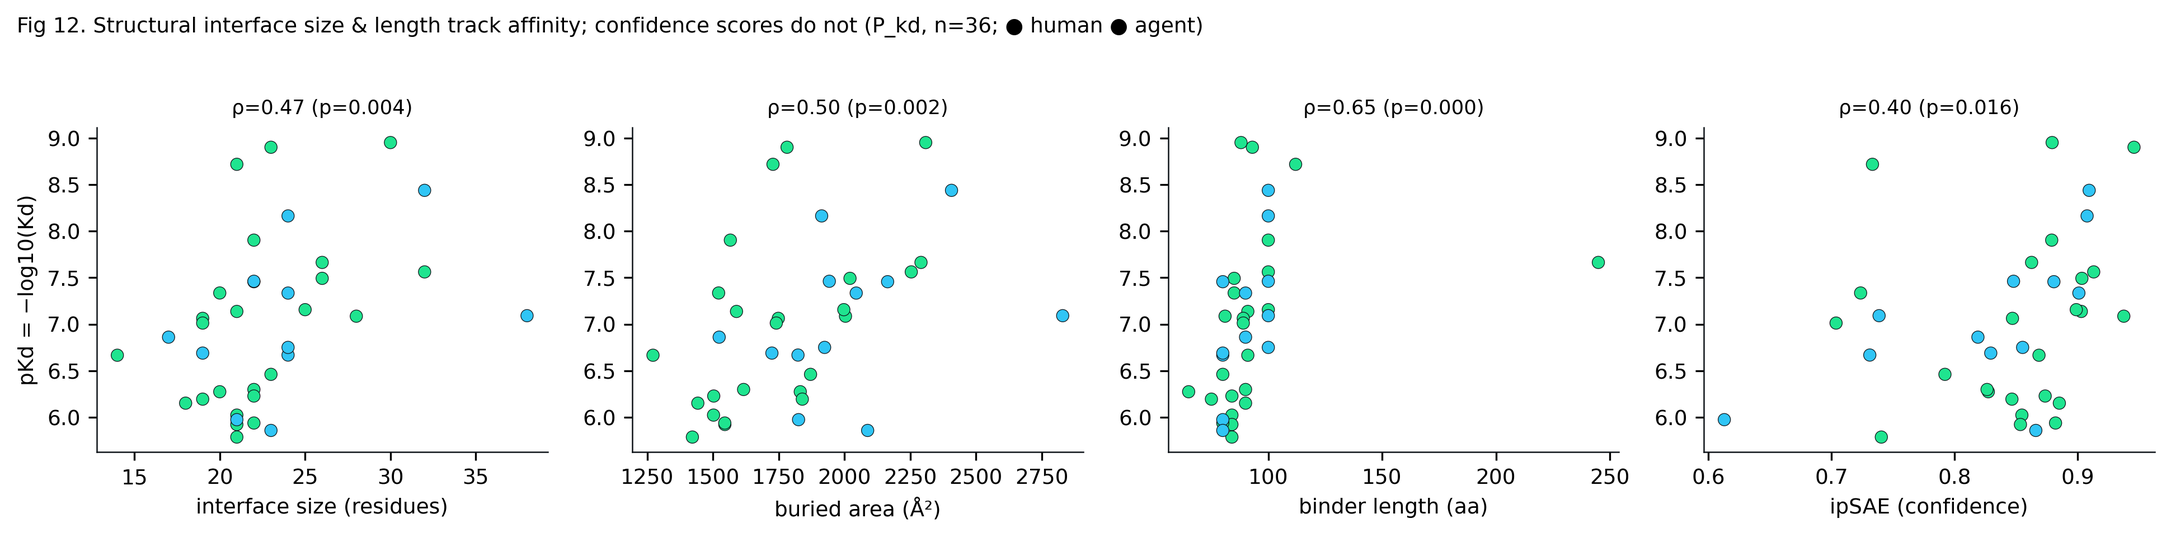
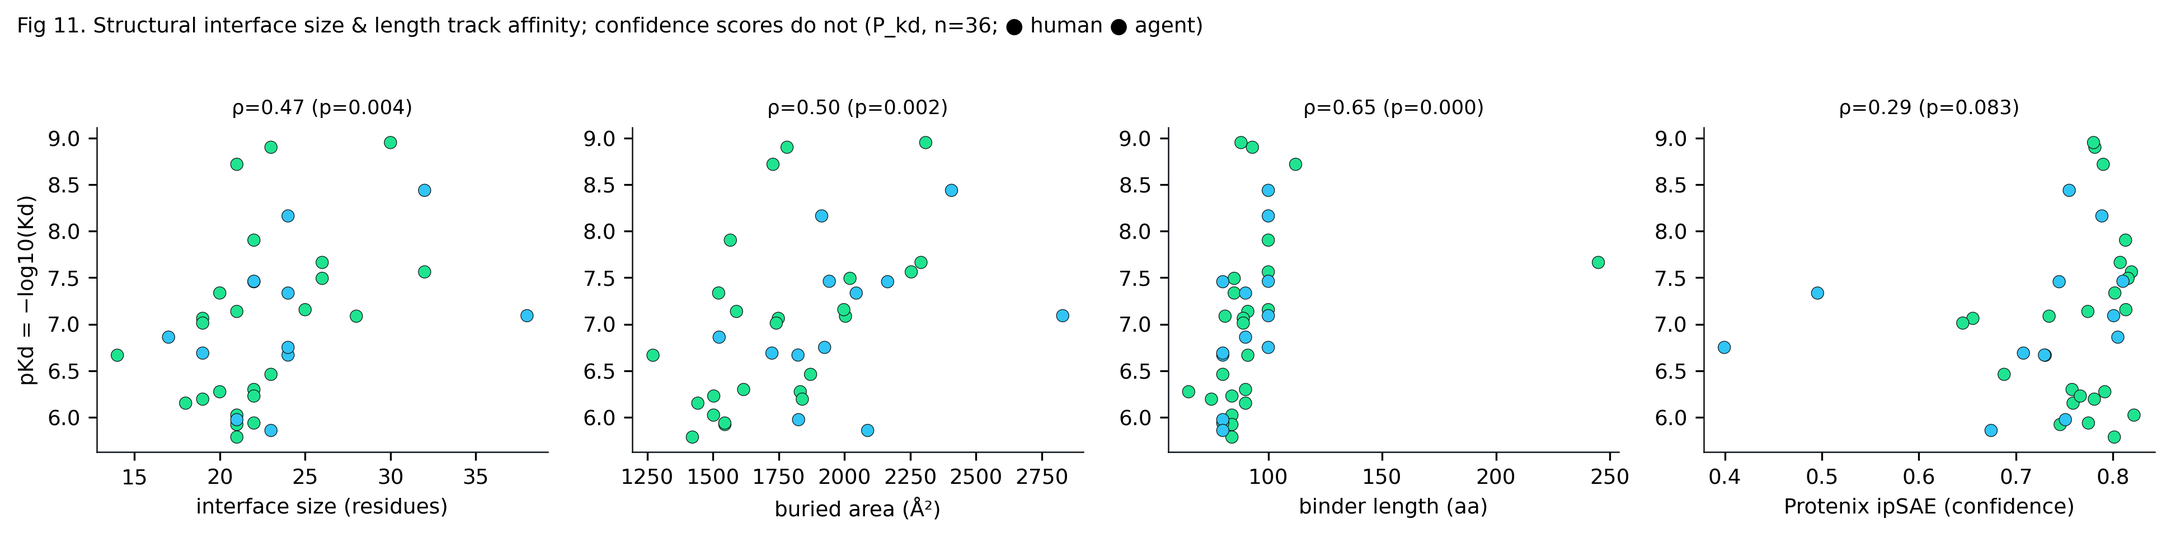
Recompute §3 learned scores on Protenix (apples-to-apples with §2) — cleaner failure story
phase6_correlations.py TIER1 now uses the PROTENIX confidence scores (px_ipsae_d0chn_max, px_iptm,
px_mean_plddt), matching §2's all-Protenix analysis; the competition's Boltz-2 ipSAE (submitted_ipsae) is
retained alongside as the actual top-100 selection metric. Regenerated metric_correlations.csv (fixed seeds).

New numbers (P_kd, n=36): on Protenix, NO learned score ranks affinity — ipSAE ρ=0.29, ipTM 0.20, mean pLDDT
0.28, all CIs spanning zero / q>0.10 (as before ESM-2 0.09, SaProt 0.06). The *same* Protenix confidence
scores that discriminate binders from non-binders strongly (§2, AUROC 0.71-0.79) fail to order them by K_D.
The only learned score clearing FDR is the competition's own Boltz-2 ipSAE (ρ=0.40, q=0.10), barely, and
entirely agent-driven (0.66 vs 0.30); the Protenix ipSAE leans the same way weakly (0.47 vs 0.28), n.s.
Structural quantities unchanged (BSA 0.50, interface size 0.47, PRODIGY 0.52, length 0.65).

- Draft §3 body + human/agent para + Summary bullet + Methods rewritten to the Protenix numbers and the
  sharpened classification-vs-ranking conclusion; applied identically to both draft files (prose-identical).
- Fig 11: 4th panel now Protenix ipSAE (ρ=0.29) instead of Boltz-2 submitted ipSAE; regenerated. Fig 8e
  in-image title corrected 'Fig 8d'->'Fig 8e' (was stale from the earlier file rename); regenerated.
- metric_predictor_table note updated (§3 now uses the same Protenix mean-complex pLDDT, ρ=0.28).
[…]

diff --git a/analyses/structure_epitope/jobs/phase6_correlations.py b/analyses/structure_epitope/jobs/phase6_correlations.py
@@ -13,13 +13,15 @@ RNG = np.random.default_rng(20260725)
 NBOOT, NPERM = 5000, 10000
 
 df = pd.read_parquet(ROOT / "data/designs.parquet")
-# §5 uses PROTENIX interface descriptors (the section's primary structural model), not the
-# Protenix+Chai average, for section-wide consistency with §2 (Amy's call).
+# §3 uses PROTENIX throughout for section-wide consistency with §2 (Amy's call): both the interface
+# descriptors AND the learned confidence scores (ipSAE/ipTM/mean-pLDDT) are the Protenix values, so §3's
+# metric comparison is apples-to-apples with §2's discrimination (which is all Protenix). The competition's
+# Boltz-2 ipSAE (submitted_ipsae) is retained alongside as the actual top-100 selection metric, for context.
 desc = pd.read_csv(RES / "interface_descriptors_perpredictor.csv")
 desc = desc[desc.predictor == "protenix"].drop(columns=["predictor"]).reset_index(drop=True)
 meta = pd.read_parquet(ROOT / "analyses/structure_epitope/data/designs_canonical.parquet")
 d = (meta[["design_id","cohort","p_kd","pkd_arith_mean","is_literature_copy"]]
-     .merge(df[["design_id","submitted_ipsae","boltz2_iptm","boltz2_plddt","esm_pll_avg",
+     .merge(df[["design_id","px_ipsae_d0chn_max","px_iptm","px_mean_plddt","submitted_ipsae","esm_pll_avg",
                 "saprot_pll_norm","prodigy_protenix_pkd","prodigy_chai_pkd","sequence_length"]],
             on="design_id")
      .merge(desc[["design_id","bsa","n_iface_binder","n_iface_target","iface_frac_hydrophobic",
@@ -27,7 +29,7 @@ d = (meta[["design_id","cohort","p_kd","pkd_arith_mean","is_literature_copy"]]
 kd = d[d.p_kd == True].copy()
 print(f"P_kd n = {len(kd)}")
 
-TIER1 = ["submitted_ipsae","boltz2_iptm","boltz2_plddt","esm_pll_avg","saprot_pll_norm"]
+TIER1 = ["px_ipsae_d0chn_max","px_iptm","px_mean_plddt","submitted_ipsae","esm_pll_avg","saprot_pll_norm"]
 TIER2 = ["bsa","n_iface_binder","n_iface_target","iface_frac_hydrophobic",
          "prodigy_protenix_pkd","prodigy_chai_pkd","salt_bridges","hbonds"]
 TIER3 = ["sequence_length"]  # exploratory: length is a strong raw confound (verified rho~0.65)

diff --git a/analyses/structure_epitope/jobs/figures.py b/analyses/structure_epitope/jobs/figures.py
@@ -65,11 +65,11 @@ plt.close(fig)
 
 # ---------- Fig 12: metrics vs affinity ----------
 d = desc.merge(meta[["design_id","p_kd","pkd_arith_mean"]], on="design_id")
-df6 = pd.read_parquet(ROOT/"data/designs.parquet")[["design_id","submitted_ipsae","sequence_length"]]
+df6 = pd.read_parquet(ROOT/"data/designs.parquet")[["design_id","px_ipsae_d0chn_max","sequence_length"]]
 d = d.merge(df6, on="design_id"); kd = d[d.p_kd==True]
 from scipy import stats
 panels = [("n_iface_binder","interface size (residues)"),("bsa","buried area (Å²)"),
-          ("sequence_length","binder length (aa)"),("submitted_ipsae","ipSAE (confidence)")]
+          ("sequence_length","binder length (aa)"),("px_ipsae_d0chn_max","Protenix ipSAE (confidence)")]
 fig, axs = plt.subplots(1, 4, figsize=(13, 3.2))
 for ax, (col, lab) in zip(axs, panels):
     s = kd.dropna(subset=[col,"pkd_arith_mean"])

diff --git a/analyses/structure_epitope/jobs/metric_predictor_table.py b/analyses/structure_epitope/jobs/metric_predictor_table.py
@@ -149,7 +149,7 @@ L = ["# Per-predictor metric table — AUROC, ρ, and FDR\n",
      "value); **contact motifs are "
      "population enrichment (odds ratios), not a per-design score, so they are reported separately below, "
      "not as AUROC/ρ.** pLDDT is **mean-complex pLDDT** on 0–1 for all three (Protenix rescaled from "
-     "0–100) — a slightly different quantity from §3's Boltz-2 *binder* pLDDT (ρ=0.14).\n"]
+     "0–100) ; §3 uses this same Protenix mean-complex pLDDT for its affinity correlation (ρ=0.28).\n"]
 
 for analysis, kind, head in [("Binder-vs-non-binder discrimination", "auroc", "AUROC"),
                              ("Affinity (pKd) correlation", "rho", "ρ")]:

diff --git a/analyses/structure_epitope/drafts/structure_analysis.md b/analyses/structure_epitope/drafts/structure_analysis.md
@@ -7,7 +7,7 @@ extensions:
 
 - **Convergent, non-discriminating epitope.** Binders and non-binders alike engage the same apical ligand-binding face (hydrophobic tip + CDR-like loops); *epitope choice does not separate active from inactive designs* (§1).
 - **Interface size is the only interface *descriptor* that discriminates binders from non-binders — robustly, not most strongly.** Binders bury a larger interface (1,823 vs. 1,515 Å², AUROC 0.72, q=0.004), and the effect holds at AUROC 0.65–0.72 across all five predictors (including the no-MSA ESMFold2). It is *not* the best discriminator overall, however: the learned confidence scores match or beat it on the clean AF3-class models (Protenix ipTM 0.79, ipSAE 0.78 vs. buried area 0.72; mean pLDDT 0.71 about level; Chai higher still). Those scores are simply backbone-dependent — ipSAE falls to 0.65 on the Boltz-2 model used for selection — so interface size's advantage is *robustness* across models, not raw AUROC. Interface chemistry, secondary structure, and contact motifs add nothing beyond size — even interface H-bonds and salt bridges, re-scored with proper geometry (Rosetta HBondSet) on clash-verified relaxed structures, reduce to interface size (§2). 
-- **Affinity — learned scores don't *rank* K_D among binders; physical/structural quantities and length do.** Discriminating binders from non-binders (§2) and ordering binders by affinity are different questions: several learned scores do the first but none does the second. Neither the competition's Boltz-2 confidence scores (ipTM ρ=0.28, Boltz-2 binder pLDDT 0.14; ipSAE only weakly, ρ=0.40) nor the language-model likelihoods (ESM-2, SaProt) track K_D; the Protenix structural quantities — interface size (ρ=0.47), buried area (0.50), PRODIGY ΔG (0.52) — and binder length (0.65) do (pooled n=36). The human-vs-agent split is mostly statistical power, not real: interface size and buried area are underpowered — not absent — in the 12 agents, and length works in both cohorts; only PRODIGY (human-only) and ipSAE (an agent-only inversion) are genuinely cohort-specific (§3).
+- **Affinity — learned scores don't *rank* K_D among binders; physical/structural quantities and length do.** Discriminating binders from non-binders (§2) and ordering binders by affinity are different questions, and the *same* Protenix confidence scores that discriminate strongly (AUROC 0.71–0.79) do the first but not the second: on Protenix ipSAE ρ=0.29, ipTM 0.20 and mean pLDDT 0.28 are all non-significant, as are the language-model likelihoods (ESM-2, SaProt); the one learned score that clears FDR is the competition's own Boltz-2 ipSAE (the selection metric, ρ=0.40, agent-driven). The Protenix structural quantities — interface size (ρ=0.47), buried area (0.50), PRODIGY ΔG (0.52) — and binder length (0.65) do (pooled n=36). The human-vs-agent split is mostly statistical power, not real: interface size and buried area are underpowered — not absent — in the 12 agents, and length works in both cohorts; only PRODIGY (human-only) and ipSAE (an agent-only inversion) are genuinely cohort-specific (§3).
 - **Kinetics (§3).** K_D variation is dominated by k_off (k_off–K_D ρ=0.92); k_on is not predicted by any descriptor. Humans and agents show no detectable difference in rate space (equivalence for k_on; k_off excludes only a ≥~7-fold gap).
 - **Affinity in context (§3).** Best measured affinity 1.11 nM (SPR) — ~72× tighter than the best prior de novo TREM2 binder (Perera et al., 2026; 80 nM by MST) on the identical construct.
 
@@ -40,9 +40,9 @@ Furthermore, we classified design outcomes using the Failure taxonomy (Bennett e
 
 ## 3. Affinity: computational predictors and literature context
 
-For affinity (P_kd, n=36), we find that **the learned scores do not rank K_D among binders** — a separate question from the binder/non-binder discrimination of §2, and one they fail even though several of them discriminate well there. The competition's Boltz-2 confidence scores (ipTM ρ=0.28 and the Boltz-2 *binder* pLDDT ρ=0.14) and the language-model likelihoods (ESM-2 0.09, SaProt 0.06) have CIs spanning zero, with the lone exception of the competition's own selection metric, **Boltz-2 ipSAE** (the submitted ipSAE, ρ=0.40, q=0.086), whose signal comes *entirely from the agent cohort* (0.66 vs. human 0.30, ns). **The Protenix structural quantities, on the other hand, do correlate with experimental affinity measurements**: interface size (0.47), buried area (0.50), and PRODIGY ΔG (0.52) clear FDR, and **binder length is the strongest correlate** (0.65), though interface burial keeps its signal after controlling for length (partial ρ≈0.51), so it is not merely a length proxy. Because interface area and PRODIGY are read off the predicted complex, this is a structural property of the model tracking affinity, not sequence-level K_D prediction.
+For affinity (P_kd, n=36), we find that **the learned scores do not rank K_D among binders** — a separate question from the binder/non-binder discrimination of §2, and one they fail even though several of them discriminate well there. On Protenix — the section's primary model, so this is apples-to-apples with §2 — none of the learned scores ranks affinity: ipSAE ρ=0.29, ipTM 0.20 and mean pLDDT 0.28 all have CIs spanning zero, as do the language-model likelihoods (ESM-2 0.09, SaProt 0.06). The *same* Protenix confidence scores that discriminate binders from non-binders strongly (§2: AUROC 0.71–0.79) thus fail to order those binders by K_D. The one learned score that clears FDR is the competition's own **Boltz-2 ipSAE** (the submitted top-100 selection metric, ρ=0.40, q=0.10) — and it only just does, its signal coming *entirely from the agent cohort* (0.66 vs. human 0.30, ns). **The Protenix structural quantities, on the other hand, do correlate with experimental affinity measurements**: interface size (0.47), buried area (0.50), and PRODIGY ΔG (0.52) clear FDR, and **binder length is the strongest correlate** (0.65), though interface burial keeps its signal after controlling for length (partial ρ≈0.51), so it is not merely a length proxy. Because interface area and PRODIGY are read off the predicted complex, this is a structural property of the model tracking affinity, not sequence-level K_D prediction.
 
-Regarding the human-vs-agent comparison, we concluded that the contrast is a **decomposition, not a within-human story**. For interface size and buried area the 12 agents match the humans' direction but miss significance (ρ 0.36–0.41, n.s.) purely from n=12 underpower, whereas **PRODIGY is genuinely human-only** (agent ρ=0.04). Finally, **ipSAE is a genuine agent-only inversion**, the only metric that tracks affinity in agents but not humans (SI Tables S8–S9, Fig S4). In rate space, **humans and agents show no detectable difference** (log k_on/k_off/K_D MWU p=0.84/0.47/0.51; Fig 12a), with formal equivalence established for k_on and only a ≥7-fold cohort difference excludable for k_off and K_D.
+Regarding the human-vs-agent comparison, we concluded that the contrast is a **decomposition, not a within-human story**. For interface size and buried area the 12 agents match the humans' direction but miss significance (ρ 0.36–0.41, n.s.) purely from n=12 underpower, whereas **PRODIGY is genuinely human-only** (agent ρ=0.04). Finally, the one agent-specific ranking signal is carried by the **competition's Boltz-2 ipSAE** (agent ρ=0.66 vs. human 0.30, ns); the Protenix ipSAE leans the same way but weakly and clears nothing in either cohort (agent 0.47, human 0.28) (SI Tables S8–S9, Fig S4). In rate space, **humans and agents show no detectable difference** (log k_on/k_off/K_D MWU p=0.84/0.47/0.51; Fig 12a), with formal equivalence established for k_on and only a ≥7-fold cohort difference excludable for k_off and K_D.
 
 Our binder with the best measured affinity, **1.11 nM (design 17, SPR-kinetic K_D)**, is competitive with the strongest reported de novo binders across all targets and **≈72× tighter than the best prior de novo TREM2 binder** (Perera et al., 2026; Odesign2, 80 nM), although this comparison should be interpreted cautiously because it contrasts an SPR kinetic (K_D) with an MST equilibrium measurement having an approximately 5 nM detection floor; four of our 36 quantified binders fall below that range. The target constructs are nevertheless closely matched across the directly relevant datasets, all spanning TREM2 residues 19–174 (Fig S6). 
 
@@ -70,7 +70,7 @@ the **unrelaxed** Protenix complexes. All Tier A structural descriptors are
 computed on the unrelaxed predicted complexes. **All interface descriptors in the main text (§2, §3,
 Figs 9/11) are computed on Protenix, the section's single primary structural model;** the same descriptors
 are additionally computed on Chai, ESMFold2, Boltz-2, and AF2M complexes, and written
-to a per-predictor file for the SI cross-predictor comparison (SI Tables S7–S9), which anchors every comparison to Protenix. The *learned confidence scores* quoted in §3 and Fig 11 are, by contrast, the competition's own Boltz-2 values — the submitted ipSAE, Boltz-2 ipTM, and Boltz-2 binder pLDDT — so §3 pairs Protenix structural descriptors with Boltz-2 confidence scores; SI Table S8 gives every score on every model, where the confidence scores' backbone dependence is explicit. The
+to a per-predictor file for the SI cross-predictor comparison (SI Tables S7–S9), which anchors every comparison to Protenix. The learned confidence scores in §3 and Fig 11 are likewise the **Protenix** values (ipSAE, ipTM, mean pLDDT), so §3's metric comparison is apples-to-apples with §2; the competition's own Boltz-2 ipSAE (the submitted top-100 selection metric) is reported alongside for context. SI Table S8 gives every score on every model, where the confidence scores' backbone dependence is explicit. The
 interface-size discriminator holds in all five predictors, while they differ systematically in absolute
 interface size (Protenix tightest, AF2M nearly identical to it, Chai largest; Protenix–Chai Spearman
 ρ=0.32, Protenix–ESMFold2 0.50). AF2M complexes ship as PDB (the rest as mmCIF); `af2m_mean_plddt` and

diff --git a/analyses/structure_epitope/drafts/structure_analysis_illustrated.md b/analyses/structure_epitope/drafts/structure_analysis_illustrated.md
@@ -9,7 +9,7 @@ extensions:
 
 - **Convergent, non-discriminating epitope.** Binders and non-binders alike engage the same apical ligand-binding face (hydrophobic tip + CDR-like loops); *epitope choice does not separate active from inactive designs* (§1).
 - **Interface size is the only interface *descriptor* that discriminates binders from non-binders — robustly, not most strongly.** Binders bury a larger interface (1,823 vs. 1,515 Å², AUROC 0.72, q=0.004), and the effect holds at AUROC 0.65–0.72 across all five predictors (including the no-MSA ESMFold2). It is *not* the best discriminator overall, however: the learned confidence scores match or beat it on the clean AF3-class models (Protenix ipTM 0.79, ipSAE 0.78 vs. buried area 0.72; mean pLDDT 0.71 about level; Chai higher still). Those scores are simply backbone-dependent — ipSAE falls to 0.65 on the Boltz-2 model used for selection — so interface size's advantage is *robustness* across models, not raw AUROC. Interface chemistry, secondary structure, and contact motifs add nothing beyond size — even interface H-bonds and salt bridges, re-scored with proper geometry (Rosetta HBondSet) on clash-verified relaxed structures, reduce to interface size (§2). 
-- **Affinity — learned scores don't *rank* K_D among binders; physical/structural quantities and length do.** Discriminating binders from non-binders (§2) and ordering binders by affinity are different questions: several learned scores do the first but none does the second. Neither the competition's Boltz-2 confidence scores (ipTM ρ=0.28, Boltz-2 binder pLDDT 0.14; ipSAE only weakly, ρ=0.40) nor the language-model likelihoods (ESM-2, SaProt) track K_D; the Protenix structural quantities — interface size (ρ=0.47), buried area (0.50), PRODIGY ΔG (0.52) — and binder length (0.65) do (pooled n=36). The human-vs-agent split is mostly statistical power, not real: interface size and buried area are underpowered — not absent — in the 12 agents, and length works in both cohorts; only PRODIGY (human-only) and ipSAE (an agent-only inversion) are genuinely cohort-specific (§3).
+- **Affinity — learned scores don't *rank* K_D among binders; physical/structural quantities and length do.** Discriminating binders from non-binders (§2) and ordering binders by affinity are different questions, and the *same* Protenix confidence scores that discriminate strongly (AUROC 0.71–0.79) do the first but not the second: on Protenix ipSAE ρ=0.29, ipTM 0.20 and mean pLDDT 0.28 are all non-significant, as are the language-model likelihoods (ESM-2, SaProt); the one learned score that clears FDR is the competition's own Boltz-2 ipSAE (the selection metric, ρ=0.40, agent-driven). The Protenix structural quantities — interface size (ρ=0.47), buried area (0.50), PRODIGY ΔG (0.52) — and binder length (0.65) do (pooled n=36). The human-vs-agent split is mostly statistical power, not real: interface size and buried area are underpowered — not absent — in the 12 agents, and length works in both cohorts; only PRODIGY (human-only) and ipSAE (an agent-only inversion) are genuinely cohort-specific (§3).
 - **Kinetics (§3).** K_D variation is dominated by k_off (k_off–K_D ρ=0.92); k_on is not predicted by any descriptor. Humans and agents show no detectable difference in rate space (equivalence for k_on; k_off excludes only a ≥~7-fold gap).
 - **Affinity in context (§3).** Best measured affinity 1.11 nM (SPR) — ~72× tighter than the best prior de novo TREM2 binder (Perera et al., 2026; 80 nM by MST) on the identical construct.
 
@@ -61,14 +61,14 @@ Furthermore, we classified design outcomes using the Failure taxonomy (Bennett e
 
 ## 3. Affinity: computational predictors and literature context
 
-For affinity (P_kd, n=36), we find that **the learned scores do not rank K_D among binders** — a separate question from the binder/non-binder discrimination of §2, and one they fail even though several of them discriminate well there. The competition's Boltz-2 confidence scores (ipTM ρ=0.28 and the Boltz-2 *binder* pLDDT ρ=0.14) and the language-model likelihoods (ESM-2 0.09, SaProt 0.06) have CIs spanning zero, with the lone exception of the competition's own selection metric, **Boltz-2 ipSAE** (the submitted ipSAE, ρ=0.40, q=0.086), whose signal comes *entirely from the agent cohort* (0.66 vs. human 0.30, ns). **The Protenix structural quantities, on the other hand, do correlate with experimental affinity measurements**: interface size (0.47), buried area (0.50), and PRODIGY ΔG (0.52) clear FDR, and **binder length is the strongest correlate** (0.65), though interface burial keeps its signal after controlling for length (partial ρ≈0.51), so it is not merely a length proxy. Because interface area and PRODIGY are read off the predicted complex, this is a structural property of the model tracking affinity, not sequence-level K_D prediction.
+For affinity (P_kd, n=36), we find that **the learned scores do not rank K_D among binders** — a separate question from the binder/non-binder discrimination of §2, and one they fail even though several of them discriminate well there. On Protenix — the section's primary model, so this is apples-to-apples with §2 — none of the learned scores ranks affinity: ipSAE ρ=0.29, ipTM 0.20 and mean pLDDT 0.28 all have CIs spanning zero, as do the language-model likelihoods (ESM-2 0.09, SaProt 0.06). The *same* Protenix confidence scores that discriminate binders from non-binders strongly (§2: AUROC 0.71–0.79) thus fail to order those binders by K_D. The one learned score that clears FDR is the competition's own **Boltz-2 ipSAE** (the submitted top-100 selection metric, ρ=0.40, q=0.10) — and it only just does, its signal coming *entirely from the agent cohort* (0.66 vs. human 0.30, ns). **The Protenix structural quantities, on the other hand, do correlate with experimental affinity measurements**: interface size (0.47), buried area (0.50), and PRODIGY ΔG (0.52) clear FDR, and **binder length is the strongest correlate** (0.65), though interface burial keeps its signal after controlling for length (partial ρ≈0.51), so it is not merely a length proxy. Because interface area and PRODIGY are read off the predicted complex, this is a structural property of the model tracking affinity, not sequence-level K_D prediction.
 
 ![Fig 11](../figures/fig11_metrics_vs_affinity.png)
 
 ***Fig 11.*** *Structural interface size & binder length track affinity while learned confidence scores do not (P_kd, n=36; human vs agent). Buried area, interface size, and PRODIGY ΔG correlate with measured K_D; ipTM/pLDDT do not.*
 
 
-Regarding the human-vs-agent comparison, we concluded that the contrast is a **decomposition, not a within-human story**. For interface size and buried area the 12 agents match the humans' direction but miss significance (ρ 0.36–0.41, n.s.) purely from n=12 underpower, whereas **PRODIGY is genuinely human-only** (agent ρ=0.04). Finally, **ipSAE is a genuine agent-only inversion**, the only metric that tracks affinity in agents but not humans (SI Tables S8–S9, Fig S4). In rate space, **humans and agents show no detectable difference** (log k_on/k_off/K_D MWU p=0.84/0.47/0.51; Fig 12a), with formal equivalence established for k_on and only a ≥7-fold cohort difference excludable for k_off and K_D.
+Regarding the human-vs-agent comparison, we concluded that the contrast is a **decomposition, not a within-human story**. For interface size and buried area the 12 agents match the humans' direction but miss significance (ρ 0.36–0.41, n.s.) purely from n=12 underpower, whereas **PRODIGY is genuinely human-only** (agent ρ=0.04). Finally, the one agent-specific ranking signal is carried by the **competition's Boltz-2 ipSAE** (agent ρ=0.66 vs. human 0.30, ns); the Protenix ipSAE leans the same way but weakly and clears nothing in either cohort (agent 0.47, human 0.28) (SI Tables S8–S9, Fig S4). In rate space, **humans and agents show no detectable difference** (log k_on/k_off/K_D MWU p=0.84/0.47/0.51; Fig 12a), with formal equivalence established for k_on and only a ≥7-fold cohort difference excludable for k_off and K_D.
 
 ![Fig 12](../figures/fig12_kinetic_decomposition.png)
 
@@ -101,7 +101,7 @@ the **unrelaxed** Protenix complexes. All Tier A structural descriptors are
 computed on the unrelaxed predicted complexes. **All interface descriptors in the main text (§2, §3,
 Figs 9/11) are computed on Protenix, the section's single primary structural model;** the same descriptors
 are additionally computed on Chai, ESMFold2, Boltz-2, and AF2M complexes, and written
-to a per-predictor file for the SI cross-predictor comparison (SI Tables S7–S9), which anchors every comparison to Protenix. The *learned confidence scores* quoted in §3 and Fig 11 are, by contrast, the competition's own Boltz-2 values — the submitted ipSAE, Boltz-2 ipTM, and Boltz-2 binder pLDDT — so §3 pairs Protenix structural descriptors with Boltz-2 confidence scores; SI Table S8 gives every score on every model, where the confidence scores' backbone dependence is explicit. The
+to a per-predictor file for the SI cross-predictor comparison (SI Tables S7–S9), which anchors every comparison to Protenix. The learned confidence scores in §3 and Fig 11 are likewise the **Protenix** values (ipSAE, ipTM, mean pLDDT), so §3's metric comparison is apples-to-apples with §2; the competition's own Boltz-2 ipSAE (the submitted top-100 selection metric) is reported alongside for context. SI Table S8 gives every score on every model, where the confidence scores' backbone dependence is explicit. The
 interface-size discriminator holds in all five predictors, while they differ systematically in absolute
 interface size (Protenix tightest, AF2M nearly identical to it, Chai largest; Protenix–Chai Spearman
 ρ=0.32, Protenix–ESMFold2 0.50). AF2M complexes ship as PDB (the rest as mmCIF); `af2m_mean_plddt` and

diff --git a/analyses/structure_epitope/results/metric_predictor_table.md b/analyses/structure_epitope/results/metric_predictor_table.md
@@ -2,7 +2,7 @@
 
 For every metric named in the Summary. **AUROC** = binder-vs-non-binder discrimination on P_expressed (n=89; 37 binders/52 non); **ρ** = Spearman vs pKd on P_kd (n=36); **q** = BH-FDR within tier, per analysis (this is a broader family than the per-section panels, so these q's run slightly more conservative than the draft's headline values — e.g. Protenix BSA q=0.014 here vs 0.004 in §2's 9-descriptor panel; the raw p-values and effect sizes are identical). `*` marks q<0.10. Cells are `—` where the metric does not exist for that predictor (the axis is ragged by construction — see header of `jobs/metric_predictor_table.py`).
 
-Predictors: **Protenix** is the section primary. Interface geometry + secondary structure are on Protenix/Chai/ESMFold2/Boltz-2/AF2M (Boltz-2 + AF2M = regenerated/PR#6 complexes; AF2M ships as PDB); learned confidence + PRODIGY on Boltz-2/Protenix/Chai/AF2M; ESM-2/SaProt are sequence-based (one value); **contact motifs are population enrichment (odds ratios), not a per-design score, so they are reported separately below, not as AUROC/ρ.** pLDDT is **mean-complex pLDDT** on 0–1 for all three (Protenix rescaled from 0–100) — a slightly different quantity from §3's Boltz-2 *binder* pLDDT (ρ=0.14).
+Predictors: **Protenix** is the section primary. Interface geometry + secondary structure are on Protenix/Chai/ESMFold2/Boltz-2/AF2M (Boltz-2 + AF2M = regenerated/PR#6 complexes; AF2M ships as PDB); learned confidence + PRODIGY on Boltz-2/Protenix/Chai/AF2M; ESM-2/SaProt are sequence-based (one value); **contact motifs are population enrichment (odds ratios), not a per-design score, so they are reported separately below, not as AUROC/ρ.** pLDDT is **mean-complex pLDDT** on 0–1 for all three (Protenix rescaled from 0–100); §3 uses this same Protenix mean-complex pLDDT for its affinity correlation (ρ=0.28).
 
 ## Binder-vs-non-binder discrimination — AUROC (q)
 
